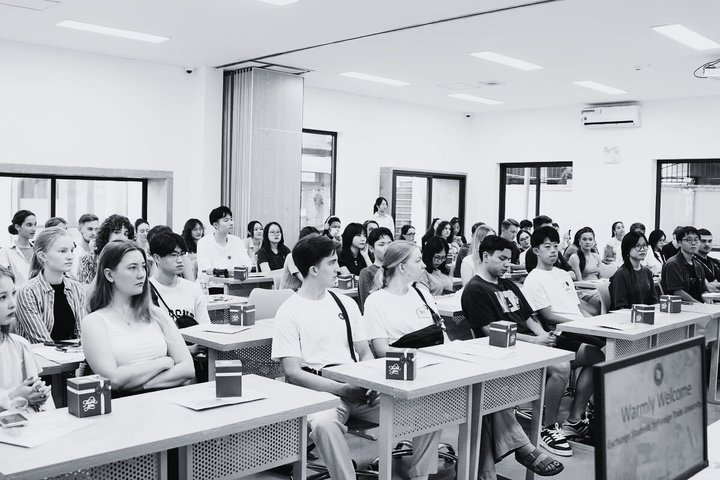
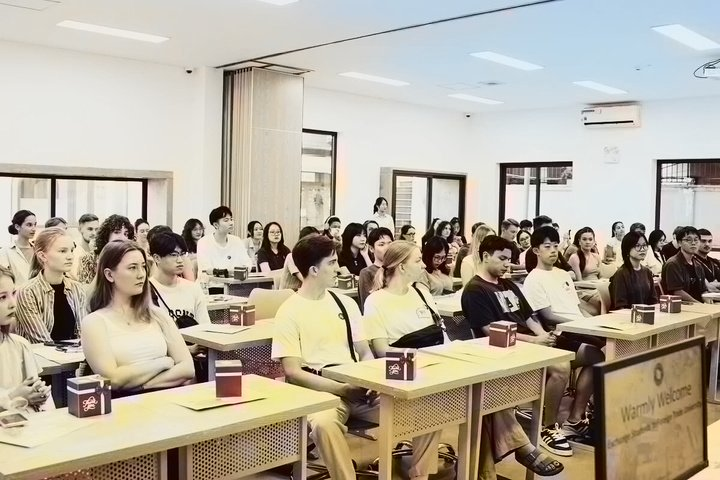
feat: colourise black-and-white photos
AI colourisation (Zhang et al., OpenCV DNN) via scripts/colorize.py; model files
and an OpenCV 4 venv live in the git-ignored .cache/. Soft (65%) colour for the
two Buddy Program photos and the avatar, full for Hallym. The Future Media TikTok
cover stays black-and-white: it is a screenshot of a real published post.
OG image regenerated with the new avatar.

diff --git a/tests/unit/colour.test.ts b/tests/unit/colour.test.ts
@@ -1,0 +1,24 @@
+import sharp from 'sharp';
+import { describe, expect, it } from 'vitest';
+
+// mean per-pixel chroma (max channel - min channel) over visible pixels; 0 for greyscale
+async function meanChroma(path: string): Promise<number> {
+  const { data } = await sharp(path).ensureAlpha().resize(120).raw().toBuffer({ resolveWithObject: true });
+  let sum = 0;
+  let n = 0;
+  for (let i = 0; i < data.length; i += 4) {
+    if (data[i + 3] < 128) continue; // transparent background of cut-outs
+    sum += Math.max(data[i], data[i + 1], data[i + 2]) - Math.min(data[i], data[i + 1], data[i + 2]);
+    n++;
+  }
+  return sum / n;
+}
+
+// fm-tiktok-3.jpg stays black-and-white on purpose: it is a screenshot of a real published post
+const COLOURISED = ['buddy-1.jpg', 'buddy-2.jpg', 'portrait.png', 'hallym.jpg'];
+
+describe('colourised photos', () => {
+  it.each(COLOURISED)('%s has real colour', async (name) => {
+    expect(await meanChroma(`src/assets/media/${name}`)).toBeGreaterThan(10);
+  });
+});

diff --git a/scripts/colorize.py b/scripts/colorize.py
@@ -1,0 +1,77 @@
+"""Colourise black-and-white photos with Zhang et al.'s model (OpenCV DNN).
+
+The model only predicts colour (the a/b channels of Lab) at 224x224; that colour is
+upscaled and recombined with each photo's original full-resolution lightness, so
+no detail is lost. PNG alpha is preserved.
+
+Setup (one-off, all inside the git-ignored .cache/):
+    python -m venv .cache/venv
+    .cache/venv/Scripts/python -m pip install "opencv-python<5" numpy pillow
+    # model files in .cache/colorization/: colorization_deploy_v2.prototxt,
+    # colorization_release_v2.caffemodel, pts_in_hull.npy (richzhang/colorization)
+
+Usage:
+    .cache/venv/Scripts/python scripts/colorize.py <outdir> <strength 0-1> <image> [<image> ...]
+"""
+import sys
+from pathlib import Path
+
+import cv2
+import numpy as np
+from PIL import Image
+
+MODEL_DIR = Path(".cache/colorization")
+
+
+def load_net() -> cv2.dnn.Net:
+    net = cv2.dnn.readNetFromCaffe(
+        str(MODEL_DIR / "colorization_deploy_v2.prototxt"),
+        str(MODEL_DIR / "colorization_release_v2.caffemodel"),
+    )
+    # 313 cluster centres of the quantised ab colour space, as 1x1 conv kernels
+    pts = np.load(MODEL_DIR / "pts_in_hull.npy", allow_pickle=False).transpose().reshape(2, 313, 1, 1)
+    net.getLayer(net.getLayerId("class8_ab")).blobs = [pts.astype(np.float32)]
+    net.getLayer(net.getLayerId("conv8_313_rh")).blobs = [np.full((1, 313), 2.606, dtype=np.float32)]
+    return net
+
+
+def colorize(net: cv2.dnn.Net, rgb: np.ndarray, strength: float = 1.0) -> np.ndarray:
+    """rgb: HxWx3 uint8 -> colourised HxWx3 uint8. strength scales the predicted colour."""
+    img = rgb.astype(np.float32) / 255.0
+    lab = cv2.cvtColor(img, cv2.COLOR_RGB2Lab)
+    small_l = cv2.cvtColor(cv2.resize(img, (224, 224)), cv2.COLOR_RGB2Lab)[:, :, 0] - 50  # mean-centred
+    net.setInput(cv2.dnn.blobFromImage(small_l))
+    ab = net.forward()[0].transpose((1, 2, 0))  # 56x56x2
+    ab = cv2.resize(ab, (rgb.shape[1], rgb.shape[0])) * strength
+    out = np.concatenate([lab[:, :, :1], ab], axis=2)
+    out = np.clip(cv2.cvtColor(out, cv2.COLOR_Lab2RGB), 0, 1)
+    return (out * 255).round().astype(np.uint8)
+
+
+def flatten(src: Image.Image) -> Image.Image:
+    """Put transparent images on white, so hidden pixels under the alpha don't colour the edges."""
+    if src.mode != "RGBA":
+        return src.convert("RGB")
+    bg = Image.new("RGB", src.size, "white")
+    bg.paste(src, mask=src.getchannel("A"))
+    return bg
+
+
+def main(outdir: str, strength: float, paths: list[str]) -> None:
+    out = Path(outdir)
+    out.mkdir(parents=True, exist_ok=True)
+    net = load_net()
+    for p in map(Path, paths):
+        src = Image.open(p)
+        alpha = src.getchannel("A") if src.mode == "RGBA" else None
+        coloured = Image.fromarray(colorize(net, np.asarray(flatten(src)), strength))
+        if alpha is not None:
+            coloured.putalpha(alpha)
+            coloured.save(out / p.name, optimize=True)
+        else:
+            coloured.save(out / p.name, quality=85, optimize=True)
+        print(f"{p.name} -> {out / p.name}")
+
+
+if __name__ == "__main__":
+    main(sys.argv[1], float(sys.argv[2]), sys.argv[3:])
